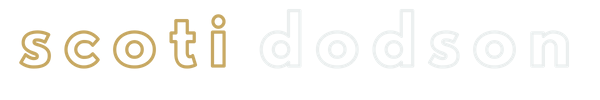
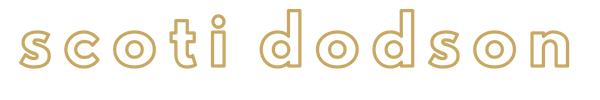
adjustments to light theme blog page

Changed region(s): [[0.42, 0.09, 0.96, 0.69]]

diff --git a/src/index.js b/src/index.js
@@ -62,7 +62,7 @@ document.addEventListener('DOMContentLoaded', () => {
       let onDark = document.querySelector('#stylesheet').href.includes('dark.css')
       let altLogo
       if (onDark) {
-        altLogo = Math.floor(Math.random() * 7)
+        altLogo = Math.floor(Math.random() * 6) + 1
       } else {
         altLogo = Math.floor(Math.random() * 4)
       }
@@ -73,7 +73,7 @@ document.addEventListener('DOMContentLoaded', () => {
       let onDark = document.querySelector('#stylesheet').href.includes('dark.css')
       if (onDark) {
         toggle.innerText = "DARK THEME"
-        logo.src=`./images/sd0.png`
+        logo.src=`./images/sd1.png`
         github.src="./images/icons/github_red.png"
         linkedin.src="./images/icons/linkedin_red.png"
         twitter.src="./images/icons/twitter_red.png"
@@ -82,6 +82,7 @@ document.addEventListener('DOMContentLoaded', () => {
         sheetLink.href='light.css'
       } else {
         toggle.innerText = "LIGHT THEME"
+        logo.src=`./images/sd1.png`
         github.src="./images/icons/github_gray.png"
         linkedin.src="./images/icons/linkedin_gray.png"
         twitter.src="./images/icons/twitter_gray.png"

diff --git a/light.css b/light.css
@@ -206,25 +206,22 @@
   }
 
   .navy-on-gold-blog {
-    display: inline-block;
-    max-width: 70%;
+    /* display: inline-block; */
+    /* max-width: 70%; */
     color: #10202f;
     padding-bottom: 1%;
-    padding-left: 12%;
-    margin-left: 2%;
+    padding-left: 5%;
+    padding-right: 5%;
     text-align: justify;
   }
 
   .navy-on-gold-blog:hover {
-    /* background-color: #eaefef; */
     color: #10202f;
     text-align: left;
     padding-top: 0;
     font-size: 1.4em;
     line-height: 24px;
-    max-width: 90%;
-    padding-left: 5%;
-    margin-left: 5%;
+    text-align: justify;
   }
 
   .navy-on-gold-blog a {
@@ -245,13 +242,15 @@
   }
 
   .blog-tag {
-    color: #eaefef;
+    color: #fff;
     background-color: #773832;
     text-transform: uppercase;
     font-family: helvetica neue;
     font-weight: 500;
     font-size: .8em;
     padding: 5px;
+    display: inline-block;
+
   }
 
   .blog-tag-holder {

diff --git a/index.html b/index.html
@@ -25,7 +25,7 @@
 
     <div class="home">
       <div class="logo">
-        <img class="sd-logo" src="./images/sd0.png" alt="SCOTI DODSON">
+        <img class="sd-logo" src="./images/sd1.png" alt="SCOTI DODSON">
       </div>
       <div class="social-icons">
         <a href="https://github.com/scotidodson" target="_blank" class="social-link">

diff --git a/dark.css b/dark.css
@@ -200,11 +200,11 @@
 
   .navy-on-gold-blog {
     display: inline-block;
-    max-width: 70%;
+    /* max-width: 70%; */
     color: #eaefef;
     padding-bottom: 1%;
-    padding-left: 12%;
-    margin-left: 2%;
+    padding-left: 5%;
+    padding-right: 5%;
     text-align: justify;
   }
 
